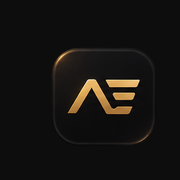
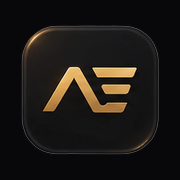
Значок центрируется по рисунку, ярлык с домашнего экрана открывается
Перекос значка был в самом изображении: в favicon-512.png рисунок лежит в
холсте не по центру — слева 108 точек пустоты, справа 5, сверху 94, снизу
43. Прошлая правка центрировала холст, и перекос переехал вместе с ним.
Теперь содержимое обрезается по своим границам и ставится по центру;
перерисованы все четыре иконки.

Ярлык не открывался из-за куки калитки: со SameSite=Strict она не
отправляется при переходе, у которого нет своего же сайта в инициаторах, —
а запуск с домашнего экрана именно такой. Калитка отвечала обрывом (444),
браузер писал «не удалось выполнить запрос», и слеш на конце был ни при
чём. Стало Lax: для куки, которая пропускает обычный переход по адресу и
ничего не меняет, этого достаточно.

- Фильтр типов операций: добавлены «Передал человеку» и «Получил от
  человека» — в форме они были с самого начала, в фильтре нет.
- Транзит считается по каждому человеку: строка «передал X, потрачено Y»
  под именем, разница зелёным или красным. Долгом не становится. Человек
  с одними транзитами раньше в списке не показывался вовсе.
- 6 тестов, один устаревший переписан под новое поведение; всего 402.

diff --git a/frontend/src/components/debts/SettlementTable.tsx b/frontend/src/components/debts/SettlementTable.tsx
@@ -44,7 +44,10 @@ export function SettlementTable({ items }: SettlementTableProps) {
           <tbody>
             {items.map((item) => (
               <tr key={item.counterparty_id} className="border-b border-border/50 last:border-0">
-                <td className="py-2.5 pr-3 font-medium">{item.name}</td>
+                <td className="py-2.5 pr-3 font-medium">
+                  {item.name}
+                  <TransitNote item={item} />
+                </td>
                 <td className="py-2.5 px-3 text-right tabular-nums text-text-muted">
                   {formatCurrency(item.received)}
                 </td>
@@ -77,6 +80,7 @@ export function SettlementTable({ items }: SettlementTableProps) {
               <p className="mt-0.5 text-xs text-text-muted">
                 {t("debts.turnover")}: {formatCurrency(item.received)} / {formatCurrency(item.given)}
               </p>
+              <TransitNote item={item} />
             </div>
             <BalanceCell balance={item.balance} />
           </li>
@@ -107,5 +111,42 @@ function BalanceCell({ balance }: { balance: string }) {
     >
       {formatCurrency(Math.abs(value))}
     </span>
+  );
+}
+
+/**
+ * Транзит по одному человеку: сколько он передал на покупки и сколько на
+ * них ушло.
+ *
+ * Отдельной строкой под именем, а не колонкой: колонок в таблице и так
+ * шесть, а транзит есть далеко не у каждого — пустая колонка на всю
+ * таблицу стоила бы дороже, чем строка у тех, у кого он есть.
+ *
+ * Долгом не является и в остаток долга не входит: человек, недодавший на
+ * продукты, не обязан возвращать, пока об этом не договорились. Но видеть
+ * разницу нужно — общей суммы по всем сразу мало, чтобы понять, с кем
+ * именно не сошлось.
+ */
+function TransitNote({ item }: { item: Settlement }) {
+  const { t } = useTranslation();
+  const balance = Number(item.transit_balance);
+  const hasTransit = Number(item.transit_in) !== 0 || Number(item.transit_out) !== 0;
+  if (!hasTransit) return null;
+
+  return (
+    <p className="mt-0.5 text-xs font-normal text-text-muted">
+      {t("debts.transitFlow", {
+        received: formatCurrency(item.transit_in),
+        spent: formatCurrency(item.transit_out),
+      })}
+      {balance !== 0 && (
+        <span className={balance > 0 ? "text-success" : "text-danger"}>
+          {" · "}
+          {t(balance > 0 ? "debts.transitLeft" : "debts.transitShort", {
+            amount: formatCurrency(Math.abs(balance)),
+          })}
+        </span>
+      )}
+    </p>
   );
 }

diff --git a/frontend/src/lib/i18n.ts b/frontend/src/lib/i18n.ts
@@ -76,6 +76,9 @@ const ru = {
   "debts.owedByMe": "Я должен",
   "debts.net": "Итого",
   "debts.turnover": "Оборот",
+  "debts.transitFlow": "На покупки: передал {{received}}, потрачено {{spent}}",
+  "debts.transitLeft": "осталось {{amount}}",
+  "debts.transitShort": "недодал {{amount}}",
   "debts.received": "Получено",
   "debts.given": "Передано",
   "debts.operations": "Операций",
@@ -1072,6 +1075,9 @@ const en: Record<keyof typeof ru, string> = {
   "debts.owedByMe": "I owe",
   "debts.net": "Net",
   "debts.turnover": "Turnover",
+  "debts.transitFlow": "For purchases: sent {{received}}, spent {{spent}}",
+  "debts.transitLeft": "{{amount}} left over",
+  "debts.transitShort": "{{amount}} short",
   "debts.received": "Received",
   "debts.given": "Given",
   "debts.operations": "Operations",

diff --git a/frontend/src/pages/TransactionsPage.tsx b/frontend/src/pages/TransactionsPage.tsx
@@ -374,6 +374,11 @@ export function TransactionsPage() {
           <option value="expense">{t("transactions.expense")}</option>
           <option value="income">{t("transactions.income")}</option>
           <option value="transfer">{t("transactions.transfer")}</option>
+          {/* Расчёты с людьми были в форме, но не в фильтре: найти их можно
+              было только глазами по списку. Подписи те же, что в форме, —
+              человек ищет то, что сам туда и записал. */}
+          <option value="external_out">{t("transactions.form.typeExternalOut")}</option>
+          <option value="external_in">{t("transactions.form.typeExternalIn")}</option>
         </Select>
         <Select
           value={accountId}

diff --git a/frontend/src/types/index.ts b/frontend/src/types/index.ts
@@ -572,6 +572,11 @@ export interface Settlement {
   owed_by_me: string;
   // Плюс — должны вам, минус — должны вы.
   balance: string;
+  // Транзит по этому человеку: передал на покупки / потрачено на них.
+  transit_in: string;
+  transit_out: string;
+  // Плюс — его деньги ещё у вас, минус — вы вложили свои. Это не долг.
+  transit_balance: string;
   operations: number;
   last_date: string | null;
 }

diff --git a/backend/tests/test_settlement_transit_per_person.py b/backend/tests/test_settlement_transit_per_person.py
@@ -1,0 +1,110 @@
+"""Транзит по каждому человеку отдельно.
+
+Транзит — деньги, прошедшие через счёт насквозь: человек передал на
+покупки, я купил. Долгом это не становится, и в оборот с человеком не
+попадает: получил от одного, передал другому — иначе список читался бы как
+«один щедрый, вторая просила».
+
+Но общей суммы по всем сразу мало. Когда не сходится, нужно знать, с кем
+именно: кто передал больше, чем потрачено, а на кого потрачено сверх
+переданного.
+"""
+from httpx import AsyncClient
+
+
+async def _counterparty(client: AsyncClient, name: str) -> dict:
+    resp = await client.post("/counterparties", json={"name": name})
+    assert resp.status_code == 201, resp.text
+    return resp.json()
+
+
+async def _settlement(
+    client: AsyncClient, account_id: int, counterparty_id: int, kind: str, direction: str, amount: str
+) -> None:
+    resp = await client.post(
+        "/transactions",
+        json={
+            "account_id": account_id,
+            "type": direction,
+            "amount": amount,
+            "description": "Расчёт",
+            "date": "2026-03-05",
+            "counterparty_id": counterparty_id,
+            "settlement_kind": kind,
+        },
+    )
+    assert resp.status_code == 201, resp.text
+
+
+async def _row(client: AsyncClient, name: str) -> dict:
+    rows = (await client.get("/settlements")).json()
+    return next(row for row in rows if row["name"] == name)
+
+
+async def test_money_left_over_is_positive(client: AsyncClient, account_id: int):
+    """Передал тысячу, потрачено семьсот — три сотни его денег у вас."""
+    person = await _counterparty(client, "Жена")
+    await _settlement(client, account_id, person["id"], "transit", "external_in", "1000.00")
+    await _settlement(client, account_id, person["id"], "transit", "external_out", "700.00")
+
+    row = await _row(client, "Жена")
+    assert row["transit_in"] == "1000.00"
+    assert row["transit_out"] == "700.00"
+    assert row["transit_balance"] == "300.00"
+
+
+async def test_spending_beyond_what_was_sent_is_negative(client: AsyncClient, account_id: int):
+    """Потрачено больше переданного — разницу вложили свою."""
+    person = await _counterparty(client, "Мама")
+    await _settlement(client, account_id, person["id"], "transit", "external_in", "500.00")
+    await _settlement(client, account_id, person["id"], "transit", "external_out", "870.00")
+
+    row = await _row(client, "Мама")
+    assert row["transit_balance"] == "-370.00"
+
+
+async def test_transit_stays_out_of_the_debt(client: AsyncClient, account_id: int):
+    """Главное: транзит не делает никого должником. Именно поэтому рядом с
+    ненулевым транзитом по-прежнему написано «рассчитались»."""
+    person = await _counterparty(client, "Брат")
+    await _settlement(client, account_id, person["id"], "transit", "external_in", "4500.00")
+    await _settlement(client, account_id, person["id"], "transit", "external_out", "4870.00")
+
+    row = await _row(client, "Брат")
+    assert row["balance"] == "0.00"
+    assert row["owed_to_me"] == "0.00"
+    assert row["owed_by_me"] == "0.00"
+
+
+async def test_transit_stays_out_of_the_turnover(client: AsyncClient, account_id: int):
+    """Оборот с человеком — то, что действительно между вами прошло.
+    Чужие деньги, полежавшие на счёте, туда не входят."""
+    person = await _counterparty(client, "Сергей")
+    await _settlement(client, account_id, person["id"], "transit", "external_in", "4500.00")
+    await _settlement(client, account_id, person["id"], "gift", "external_out", "300.00")
+
+    row = await _row(client, "Сергей")
+    assert row["received"] == "0.00"
+    assert row["given"] == "300.00"
+    assert row["transit_in"] == "4500.00"
+
+
+async def test_a_person_with_only_transit_still_appears(client: AsyncClient, account_id: int):
+    """Раньше такой человек в списке не показывался вовсе: транзит
+    пропускался до создания строки."""
+    person = await _counterparty(client, "Сосед")
+    await _settlement(client, account_id, person["id"], "transit", "external_in", "200.00")
+
+    rows = (await client.get("/settlements")).json()
+    assert any(row["name"] == "Сосед" for row in rows)
+
+
+async def test_loans_are_unaffected(client: AsyncClient, account_id: int):
+    """Долг считается по-прежнему и с транзитом не смешивается."""
+    person = await _counterparty(client, "Коллега")
+    await _settlement(client, account_id, person["id"], "loan_out", "external_out", "1000.00")
+    await _settlement(client, account_id, person["id"], "transit", "external_in", "300.00")
+
+    row = await _row(client, "Коллега")
+    assert row["balance"] == "1000.00"
+    assert row["transit_balance"] == "300.00"

diff --git a/backend/app/services/settlement_service.py b/backend/app/services/settlement_service.py
@@ -43,6 +43,12 @@ class SettlementTotals:
         # Долговая часть оборота.
         self.owed_to_me = Decimal("0")
         self.owed_by_me = Decimal("0")
+        # Транзит — отдельно от оборота и от долга. Человек передал денег
+        # на покупки, я купил: ни один из нас никому не должен, но видеть
+        # разницу нужно. Раньше она была только общей суммой по всем
+        # сразу, и понять, с кем именно не сошлось, было нельзя.
+        self.transit_in = Decimal("0")
+        self.transit_out = Decimal("0")
         self.last_date = None
         self.operations = 0
 
@@ -50,6 +56,19 @@ class SettlementTotals:
     def balance(self) -> Decimal:
         """Остаток долга: плюс — должны вам, минус — должны вы."""
         return self.owed_to_me - self.owed_by_me
+
+    @property
+    def transit_balance(self) -> Decimal:
+        """Чужие деньги по этому человеку.
+
+        Плюс — передал больше, чем потрачено: остаток лежит у вас.
+        Минус — потрачено больше, чем передал: разницу вы вложили свою.
+
+        Это не долг и в остаток долга не входит: человек, недодавший на
+        продукты, не обязан возвращать, пока об этом не договорились. Но
+        число честное и отвечает на вопрос «сошлось ли с ним».
+        """
+        return self.transit_in - self.transit_out
 
 
 async def get_settlements(session: AsyncSession) -> list[SettlementTotals]:
@@ -98,15 +117,27 @@ async def get_settlements(session: AsyncSession) -> list[SettlementTotals]:
         # ничего: деньги полежали на счёте и ушли дальше.
         #
         # Сколько всего прошло и сколько чужого лежит сейчас, показывается
-        # отдельно — см. get_transit_summary.
-        if settlement == SettlementKind.TRANSIT:
-            continue
+        # отдельно — см. get_transit_summary. По каждому человеку своя пара
+        # transit_in/transit_out ниже: общей суммы мало, чтобы понять, с кем
+        # именно не сошлось.
         entry = totals.setdefault(counterparty_id, SettlementTotals(party))
         entry.operations += 1
         if entry.last_date is None or tx_date > entry.last_date:
             entry.last_date = tx_date
 
         incoming = tx_type == TransactionType.EXTERNAL_IN
+
+        if settlement == SettlementKind.TRANSIT:
+            # Транзит идёт в свою пару и дальше не участвует: ни в обороте,
+            # ни в долге. В оборот его класть нельзя по причине, описанной
+            # выше — получивший и отдавший оказываются разными людьми, и
+            # список читался бы как «один щедрый, вторая просила».
+            if incoming:
+                entry.transit_in += amount
+            else:
+                entry.transit_out += amount
+            continue
+
         if incoming:
             entry.received += amount
         else:

diff --git a/backend/tests/test_settlements.py b/backend/tests/test_settlements.py
@@ -251,16 +251,30 @@ async def test_transit_stays_out_of_the_turnover_with_a_person(client: AsyncClie
     Раньше транзит попадал в оборот, и читалось неправильное: Иван
     числился дающим, Ольга берущей, будто один щедрый, а вторая просила.
     Деньги при этом просто полежали на счёте и ушли дальше.
+
+    Из оборота он по-прежнему исключён, но своя строка у человека теперь
+    есть: без неё нельзя было понять, с кем именно транзит не сошёлся.
     """
     ivan = await _counterparty(client, "Иван")
     olga = await _counterparty(client, "Ольга")
     await _move(client, account_id, ivan, incoming=True, amount="5000.00", settlement="transit")
     await _move(client, account_id, olga, incoming=False, amount="5000.00", settlement="transit")
 
-    rows = (await client.get("/settlements")).json()
-    # Строк нет вовсе: человек, с которым были только транзиты, в расчётах
-    # не участвовал. Нулевая строка была бы шумом.
-    assert rows == []
+    rows = {row["name"]: row for row in (await client.get("/settlements")).json()}
+
+    # Между мной и каждым из них не произошло ничего: ни оборота, ни долга.
+    for name in ("Иван", "Ольга"):
+        assert rows[name]["received"] == "0.00"
+        assert rows[name]["given"] == "0.00"
+        assert rows[name]["balance"] == "0.00"
+
+    # Но сами строки теперь есть, и в них видно направление транзита. Раньше
+    # их не было вовсе, и вопрос «с кем не сошлось» оставался без ответа:
+    # общая сумма по всем сразу на него не отвечает.
+    assert rows["Иван"]["transit_in"] == "5000.00"
+    assert rows["Иван"]["transit_balance"] == "5000.00"
+    assert rows["Ольга"]["transit_out"] == "5000.00"
+    assert rows["Ольга"]["transit_balance"] == "-5000.00"
 
 
 async def test_transit_still_shows_up_as_its_own_figure(client: AsyncClient, account_id):

diff --git a/backend/app/api/routes/settlements.py b/backend/app/api/routes/settlements.py
@@ -39,6 +39,13 @@ class SettlementRead(BaseModel):
     owed_by_me: str
     # Остаток: плюс — должны вам, минус — должны вы.
     balance: str
+    # Транзит по этому человеку: сколько он передал на покупки и сколько
+    # на них ушло. В долг не входит и в оборот тоже — см.
+    # services/settlement_service.py.
+    transit_in: str
+    transit_out: str
+    # Плюс — его деньги ещё лежат у вас, минус — вы вложили свои.
+    transit_balance: str
     operations: int
     last_date: date_ | None
 
@@ -72,6 +79,9 @@ async def list_settlements(session: AsyncSession = Depends(get_session)) -> list
             owed_to_me=_money(max(item.balance, 0)),
             owed_by_me=_money(-min(item.balance, 0)),
             balance=_money(item.balance),
+            transit_in=_money(item.transit_in),
+            transit_out=_money(item.transit_out),
+            transit_balance=_money(item.transit_balance),
             operations=item.operations,
             last_date=item.last_date,
         )

diff --git a/backend/app/core/config.py b/backend/app/core/config.py
@@ -7,7 +7,7 @@ from pydantic_settings import BaseSettings, SettingsConfigDict
 # title, /api/health (which the frontend reads to show it in Settings), and
 # embedded in exported backups so an old file can be told apart from a
 # current one.
-APP_VERSION = "1.0.0-beta.32"
+APP_VERSION = "1.0.0-beta.33"
 
 
 class Settings(BaseSettings):
